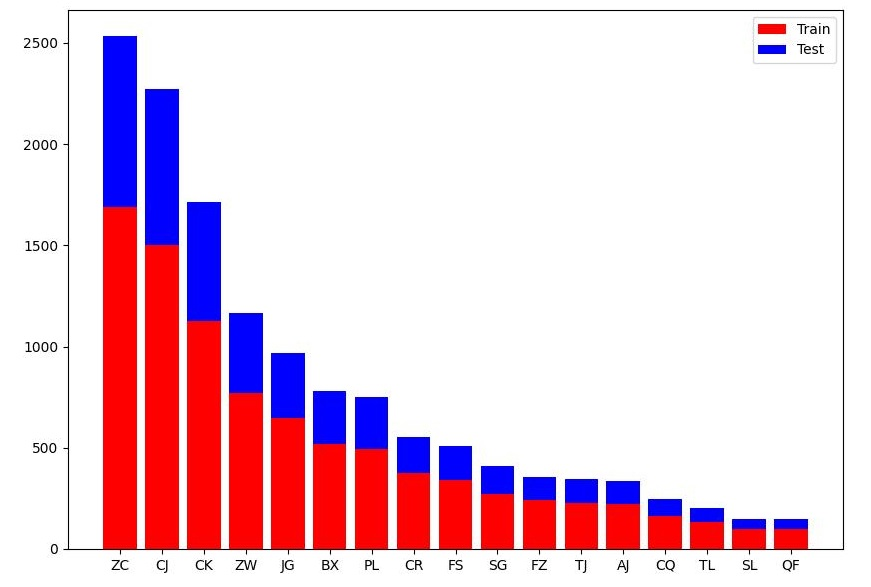
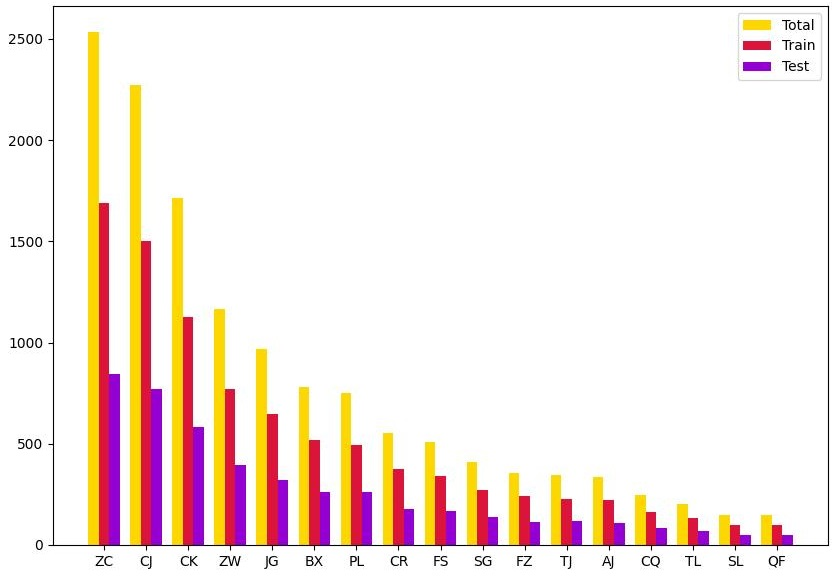
update:urbanpipe

Changed region(s): [[0.0, 0.0, 0.9928, 0.9897]]

diff --git a/datasets/urbanpipe.html b/datasets/urbanpipe.html
@@ -202,9 +202,9 @@
                             complex, multiple defects often appear at the same time, so each video is annotated by multiple labels. 
                             To obtain accurate annotations of defect instances, professional engineers are asked to check all the 
                             videos multiple rounds with cross validation. </p>
-                        <center> <span class="image fit"> <img src='../images/QV-Pipe Dataset.png' width="500px"> </span> 
+                        <!-- <center> <span class="image fit"> <img src='../images/QV-Pipe Dataset.png' width="500px"> </span> 
                             <p> Figure 1. Examples of Our UrbanPipe Dataset</p>
-                        </center>
+                        </center> -->
                         
                         <header>
                             <h3>Dataset Statitics</h3>
@@ -213,10 +213,10 @@
                              to 177.4 seconds. Each video is annotated by 1 to 5 categories. On average, each video has the duration of 20.7
                               seconds and 1.4 labels. The 9.6k videos are divided into train set and test set according to the ratio of 2:1. 
                               As shown in Figure 2, the data exhibits the natural long-tailed distribution.</p>
-                        <center> <span class="image fit"> <img src='../images/qv_data_visualization.jpg' width="500px"> </span>
-                            <p> Figure 2. Data Distribution of UrbanPipe</p> 
+                        <center> <span class="image fit"> <img src='../images/qv_data_visualization.jpg' width="600px"> </span>
+                            <p> Figure 1. Data Distribution of UrbanPipe</p> 
                         </center>
-                        <p style="text-align:justify; text-justify:inter-ideograph;">Moreover, we compare it with the existing benchmarks 
+                        <!-- <p style="text-align:justify; text-justify:inter-ideograph;">Moreover, we compare it with the existing benchmarks 
                             in video anomaly detection. As shown in Table 1, our UrbanPipe dataset shows the following distinct characteristics. 
                             First, compared to the existing benchmarks, our UrbanPipe is large scale. Second, each video in our UrbanPipe contains 
                             multiple anomaly categories, and these categories are fine-grained. Finally, the previous datasets mainly works on human. 
@@ -224,7 +224,7 @@
                             opportunities to understand video content for anomaly detection and beyond.
                         </p>
                         <center><p> Table 1. Video Anomaly Detection Benchmark Comparison</p>
-                             <span class="image fit"> <img src='../images/qv-table.png' width="600px"> </span> </center>
+                             <span class="image fit"> <img src='../images/qv-table.png' width="600px"> </span> </center> -->
 
                         <!--<header><h3>Dataset Properties</h3></header><p style="text-align:justify; text-justify:inter-ideograph;"> Our <i>MultiSports</i> contains 66 fine-grained action categories from four different sports, selected from 247 competition records. The records are manually cut into 800 clips per sport to keep the balance of data size between sports, where we discard intervals with only background scenes, such as award, and select the highlights of competitions as video clips for action localization.</p><ol><li> Overall comparison of statistics between existing action localization datasets and our <i>MultiSports</i> v1.0. (* only train and val sets' ground-truths are available, † number of person tracklets, each of which has one or more action labels, ‡ 1fps action annotations have no clear action boundaries) <span class="image fit"><img src="/images/fineaction/tab1.png" alt="comparison with other dataset"/></span></li><li> Overall comparison of statistics between existing action localization datasets and our <i>MultiSports</i> v1.0. (* only train and val sets' ground-truths are available, † number of person tracklets, each of which has one or more action labels, ‡ 1fps action annotations have no clear action boundaries) <span class="image fit"><img src="/images/fineaction/pic1.png" alt="comparison with other dataset"/></span></li><li> Statistics of each action class's data size in <i>MultiSports</i> sorted by descending order with 4 colors indicating 4 different sports. For actions in the different sports sharing the same name, we add the name of sports after them. The natural long-tailed distribution of action categories raises new challenges for action localization models. <span class="image fit"><img src="/images/fineaction/pic2.png" alt="number of instances"/></span></li></ol>-->
                         <!-- <header>
